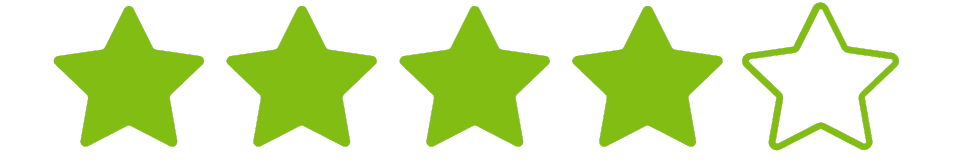
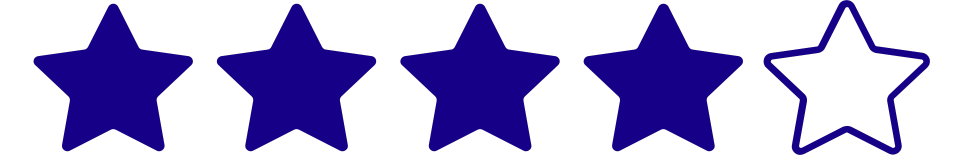
Adjustments

diff --git a/static/style.css b/static/style.css
@@ -15,11 +15,11 @@
   }
 
   :root.light{
-    --bg: #fffbf7;
-    --banner-bg: #ffffff;
-    --fg: #1b1a1a;
+    --bg: #cbcbcb;
+    --banner-bg: #ededed;
+    --fg: #0a003c;
     --blue: #f20000;
-    --yellow: #82bd14;
+    --yellow: #170088;
     --white: #000000;
   }
 
